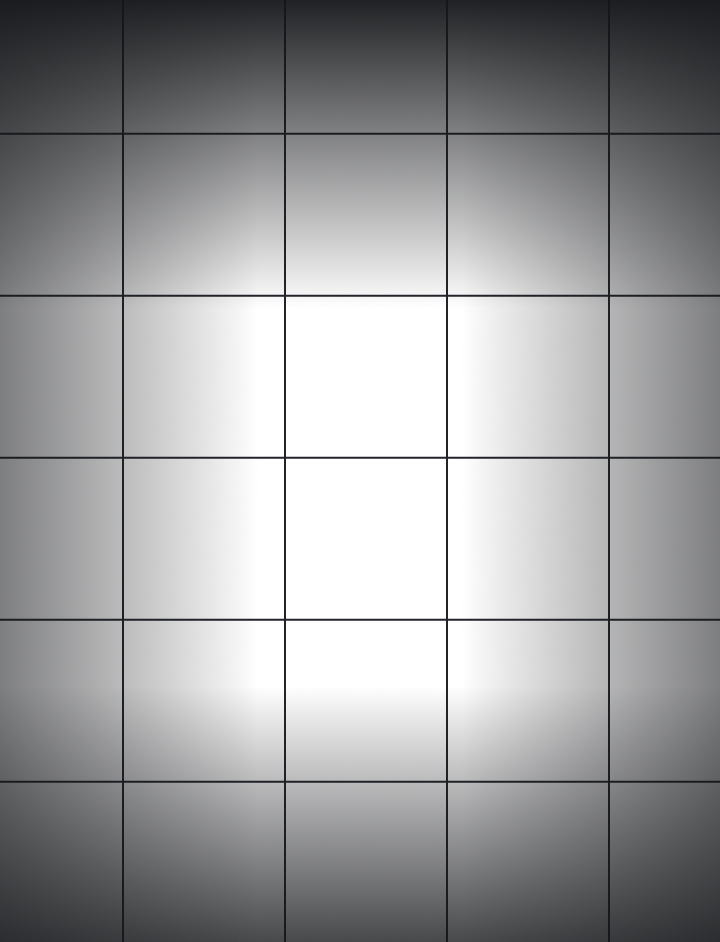
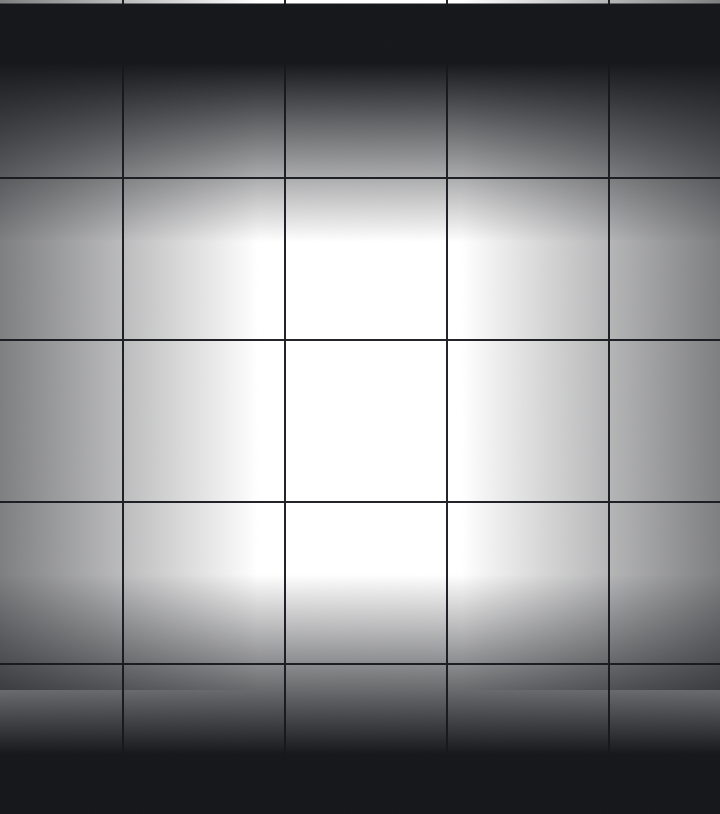
fixes

diff --git a/app/css/calculator.min.css b/app/css/calculator.min.css
@@ -1,1 +1,1 @@
-@media only screen and (min-width: 1160px){.functions-page .dropdown-item.active .dropdown-item__body{padding:0 24px 24px 24px !important}.functions-page .dropdown-item.active .functions-page__dropdown-header-button{opacity:1;pointer-events:all}.functions-page .dropdown-item__head{padding:16px 24px;position:relative}.functions-page .dropdown-item__title{font-size:18px}.functions-page .dropdown-item__value{width:48px;height:48px}.functions-page .dropdown-item__body{padding:0 24px !important}.functions-page .functions-page__dropdown-button{display:none}}.functions-page__container{padding-bottom:56px}@media only screen and (min-width: 760px){.functions-page__container{padding-bottom:90px}}@media only screen and (min-width: 1160px){.functions-page__container{padding-bottom:180px}}.functions-page__banner{padding-top:116px;padding-bottom:56px}@media only screen and (min-width: 760px){.functions-page__banner{max-width:620px;margin:0 auto;display:block;padding-bottom:80px;padding-top:190px}}@media only screen and (min-width: 1160px){.functions-page__banner{padding-bottom:163px;padding-top:196px}}.functions-page__title{font-size:28px;font-weight:700;line-height:140%;letter-spacing:.56px;color:#eeeff1;text-align:center;margin-bottom:12px}@media only screen and (min-width: 1160px){.functions-page__title{font-size:40px;line-height:150%;letter-spacing:.8px}}.functions-page__text{font-size:15px;text-align:center;margin-bottom:32px}.functions-page__image{width:100%;object-fit:contain}.functions-page__item.active .dropdown-item__body{max-height:3000px !important}@media only screen and (min-width: 1160px){.functions-page__item.active .dropdown-item__body{max-height:2000px !important}}.functions-page__dropdown-text{font-size:15px;margin-bottom:14px}.functions-page__dropdown-header-button{display:none}@media only screen and (min-width: 1160px){.functions-page__dropdown-header-button{display:flex;position:absolute;right:76px;top:23px;max-width:142px;opacity:0;pointer-events:none}}.functions-page__scenario{margin-top:32px}.functions-page__scenario-title{font-size:16px;font-weight:700;line-height:155%;color:#eeeff1;padding-bottom:16px;margin-bottom:16px;border-bottom:1px solid #2e3038}.functions-page__scenario-item{padding-bottom:14px;margin-bottom:24px;border-bottom:1px solid #2e3038}.functions-page__scenario-item-head{display:flex;align-items:center;margin-bottom:12px}.functions-page__scenario-item-icon{margin-right:4px}.functions-page__scenario-item-text{font-size:14px}.functions-page__scenario-item-list{display:flex;flex-wrap:wrap;align-items:center}.functions-page__scenario-item-tag-wrapper{display:flex;align-items:center}.functions-page__scenario-item-tag-wrapper:last-child .functions-page__scenario-item-tag-icon{display:none}.functions-page__scenario-item-tag{margin-right:0}.functions-page__scenario-item-tag-icon{margin:0 2px 8px 2px}.functions-page__scenario-info{display:flex;align-items:center;justify-content:space-between}.functions-page__scenario-info img{width:20px;height:20px;margin-left:2px}.functions-page__scenario-info .text{width:calc(100% - 22px)}@media only screen and (min-width: 760px){.functions-page__scenario-info{justify-content:flex-start}.functions-page__scenario-info .text{width:auto}}.functions-page__button{margin-bottom:32px}@media only screen and (min-width: 760px){.functions-page__button{max-width:200px;margin:0 auto 40px}}.functions-page__label{width:100%;border-radius:500px;background:#1c1d22;box-shadow:0 8px 30px 0 rgba(4,5,6,.06);padding:9px 24px 9px 6px;display:flex;align-items:center;justify-content:space-between}.functions-page__label .functions-page__label-image{width:48px;height:48px;display:flex;align-items:center;justify-content:center;border-radius:30px;background:#22242a}.functions-page__label span{font-size:13px;font-weight:700;line-height:140%;color:#eeeff1;width:calc(100% - 60px)}@media only screen and (min-width: 760px){.functions-page__label{max-width:685px;margin:-140px auto 0}}.calculator-modal__backdrop{width:100%;height:100%;position:fixed;left:0;top:0;z-index:9999;opacity:0;pointer-events:none;transition:all .3s ease}.calculator-modal__backdrop.final .calculator-modal__nav{display:none}.calculator-modal__backdrop.visible{opacity:1;pointer-events:all}@media only screen and (min-width: 760px){.calculator-modal__backdrop{display:flex;align-items:center;justify-content:center;background:rgba(5,5,6,.8)}}.calculator-modal__card{width:100%;height:100%;border-radius:0;padding:56px 0 0 0;overflow-y:auto;position:relative;background:#17181c}.calculator-modal__card.final-step .calculator-modal__nav{display:none}@media only screen and (min-width: 760px){.calculator-modal__card{width:calc(100vw - 48px);height:calc(100vh - 48px);border-radius:24px}}@media only screen and (min-width: 760px){.calculator-modal__body{max-width:618px;margin:0 auto}.calculator-modal__body:has(>.calculator-modal__template.range){height:100%;display:flex;align-items:center;padding-bottom:50px}}.calculator-modal__close{position:absolute;right:16px;top:16px;width:32px;height:32px;display:flex;align-items:center;justify-content:center;border-radius:6px;background:#2e3038;cursor:pointer}@media only screen and (min-width: 1160px){.calculator-modal__close{right:24px;top:24px}}.calculator-modal__container{width:100%;height:100%;display:flex;flex-direction:column;justify-content:space-between}.calculator-modal__progress{width:100%;display:flex;align-items:center;justify-content:space-between;margin-bottom:20px}.calculator-modal__step{width:calc(20% - 6px);height:4px;border-radius:8px;background:#22242a}.calculator-modal__step.active{background:#6a7081}.calculator-modal__button-group{display:flex;align-items:center;justify-content:space-between;padding-bottom:20px}.calculator-modal__back{width:auto;background:rgba(0,0,0,0);font-size:14px;font-weight:700;line-height:160%;color:#eeeff1;pointer-events:all}.calculator-modal__back.disabled{color:#2e3038;pointer-events:none}.calculator-modal__next{max-width:110px}.calculator-modal__next img{margin-left:4px}.calculator-modal__template.choose{margin-bottom:32px}.calculator-modal__template-title{font-size:22px;font-weight:700;line-height:150%;letter-spacing:.22px;color:#eeeff1;margin-bottom:12px}.calculator-modal__template-title span{color:#5d75ef}.calculator-modal__template-text{margin-bottom:24px;font-size:15px}.calculator-modal__template-choose{display:flex;flex-wrap:wrap;align-items:center;justify-content:space-between;margin-bottom:16px}@media only screen and (min-width: 1160px){.calculator-modal__template-choose{justify-content:flex-start;gap:16px}}.calculator-modal__template-choose-item{width:calc(50% - 4px);height:124px;display:flex;align-items:center;justify-content:center;flex-direction:column;border-radius:14px;border:1px solid #2e3038;margin-bottom:8px;transition:all .3s ease;cursor:pointer}.calculator-modal__template-choose-item img{width:24px;height:24px;margin-bottom:12px}.calculator-modal__template-choose-item span{font-size:13px;font-weight:700;line-height:155%;color:#eeeff1;text-align:center}.calculator-modal__template-choose-item.selected{border:1px solid #5d75ef;background:rgba(93,117,239,.05)}.calculator-modal__template-choose-item.selected:hover{border:1px solid #5d75ef;background:rgba(93,117,239,.05)}.calculator-modal__template-choose-item:hover{border-color:#393d46;background:#1c1d22}@media only screen and (min-width: 1160px){.calculator-modal__template-choose-item{width:calc(33.3333333333% - 11px);height:140px;margin-bottom:0}}.calculator-modal__template-choose-subtext{font-size:13px;margin-top:16px}.calculator-modal__range-wrapper .input-group{position:relative}.calculator-modal__range-wrapper .input-group .input{text-align:center;font-weight:700;font-size:20px}.calculator-modal__range-wrapper .input-group .calculator-modal__label{position:absolute;right:20px;top:50%;transform:translateY(-50%);color:#393d46;font-weight:700;font-size:20px}@media only screen and (min-width: 1160px){.calculator-modal__range-wrapper .input-group input{height:66px}}.calculator-modal__range{width:100%;position:relative;margin-top:20px}.calculator-modal__range input{-webkit-appearance:none;appearance:none;background:#22242a;width:100%;height:14px;border-radius:100px;outline:0}.calculator-modal__range input::-webkit-slider-thumb{-webkit-appearance:none}.calculator-modal__range input:focus{outline:none}.calculator-modal__range input::-webkit-slider-runnable-track{height:14px;background:#22242a;border-radius:100px;overflow:hidden}.calculator-modal__range input::-webkit-slider-thumb{border:3px solid #eeeff1;height:14px;width:14px;border-radius:100px;background:#5d75ef;cursor:pointer;box-shadow:-507px 0 0 500px #5d75ef}.calculator-modal__range input::-moz-range-thumb{border:3px solid #eeeff1;height:14px;width:14px;border-radius:100px;background:#5d75ef;cursor:pointer;box-shadow:-507px 0 0 500px #5d75ef}.calculator-modal__range input::-ms-thumb{border:3px solid #eeeff1;height:14px;width:14px;border-radius:100px;background:#5d75ef;cursor:pointer;box-shadow:-507px 0 0 500px #5d75ef}.calculator-modal__range-values{width:100%;display:flex;align-items:center;justify-content:space-between;margin-top:12px}.calculator-modal__range-values .calculator-modal__range-value{font-size:12px;font-weight:500;line-height:130%;color:#575c6b}.calculator-modal__range-splitter{width:2px;height:16px;background:#17181c;display:block;top:1px;position:absolute}.calculator-modal__range-splitter.left{left:25%;transform:translateX(-50%)}.calculator-modal__range-splitter.center{left:49%;transform:translateX(-50%)}.calculator-modal__range-splitter.right{left:73%;transform:translateX(-50%)}.calculator-modal__template-rooms{padding-bottom:24px}.calculator-modal__template-room{width:100%;display:flex;align-items:center;justify-content:space-between;padding:16px 16px 16px 20px;border-radius:14px;border:1px solid #2e3038;margin-bottom:12px}.calculator-modal__template-room:last-child{margin-bottom:0}.calculator-modal__template-room__name{font-size:13px;font-weight:700;line-height:155%;color:#eeeff1}@media only screen and (min-width: 760px){.calculator-modal__template-room__name{font-size:14px}.calculator-modal__template-room__name br{display:none}}.calculator-modal__template-counter{min-width:100px;display:flex;align-items:center;justify-content:space-between}.calculator-modal__template-minus,.calculator-modal__template-plus{width:32px;height:32px;display:flex;align-items:center;justify-content:center;border-radius:7px;background:#22242a;border:none;font-size:24px;font-weight:400;color:#84899a;cursor:pointer;transition:all .3s ease}.calculator-modal__template-minus:hover,.calculator-modal__template-plus:hover{background:#2e3038;color:#eeeff1}.calculator-modal__template-room-value{width:32px;height:32px;display:flex;align-items:center;justify-content:center;font-size:13px;font-weight:500;line-height:140%;color:#eeeff1}.calculator-modal_final-title{font-size:17px;font-weight:700;line-height:155%;color:#eeeff1;margin-bottom:24px}.calculator-modal_final-dropdown{border-radius:14px;background:#1c1d22;margin-bottom:16px;transition:all .3s ease}.calculator-modal_final-dropdown.active .calculator-modal_final-dropdown-body{padding-bottom:22px;max-height:1000px}.calculator-modal_final-dropdown.active .calculator-modal_final-dropdown-right img{transform:rotate(270deg)}.calculator-modal_final-dropdown.active:hover{background:#1c1d22}.calculator-modal_final-dropdown:hover{background:#22242a}.calculator-modal_final-dropdown-header{padding:22px 24px;display:flex;align-items:center;justify-content:space-between;cursor:pointer}.calculator-modal_final-dropdown-left{display:flex;align-items:center}.calculator-modal_final-dropdown-title{font-size:20px;font-weight:700;line-height:150%;color:#5d75ef;margin-right:6px}.calculator-modal_final-dropdown-icon{position:relative}.calculator-modal_final-dropdown-icon:hover .calculator-modal_final-info{opacity:1;pointer-events:all}.calculator-modal_final-info{top:calc(100% + 4px);left:-100px;position:absolute;width:max-content;max-width:360px;padding:8px;border-radius:5px;background:#2e3038;font-size:13px;font-weight:700;line-height:150%;color:#eeeff1;transition:all .3s ease;opacity:0;pointer-events:none}.calculator-modal_final-info svg{position:absolute;top:-4px;left:50%;transform:translateX(-50%)}@media only screen and (min-width: 760px){.calculator-modal_final-info{max-width:490px;transform:translateX(-50%);left:50%}}.calculator-modal_final-dropdown-right{display:flex;align-items:center}.calculator-modal_final-dropdown-right span{font-size:12px;font-weight:500;line-height:130%;color:#eeeff1;margin-right:4px}.calculator-modal_final-dropdown-right img{transition:all .5s ease;transform:rotate(90deg)}.calculator-modal_final-dropdown-body{width:100%;max-height:0;transition:all .5s ease;padding-left:24px;padding-right:24px;overflow:hidden}.calculator-modal_final-dropdown-item{width:100%;padding:12px 0;border-top:1px solid #2e3038;display:flex;align-items:center;justify-content:space-between}.calculator-modal_final-dropdown-item-title{font-size:14px;font-weight:700;line-height:155%;color:#eeeff1;margin-bottom:2px}.calculator-modal_final-dropdown-item-text{font-size:13px}.calculator-modal_final-dropdown-item-value{font-size:16px;font-weight:700;line-height:155%;color:#eeeff1;margin-left:24px;text-wrap:nowrap}.calculator-modal_final-text{font-size:13px;margin-bottom:32px}.calculator-modal_final-form{padding-bottom:22px}.calculator-modal_final-form-title{font-size:19px;font-weight:700;line-height:150%;color:#eeeff1;margin-bottom:16px}.calculator-modal_final-form-group{margin-bottom:12px}.calculator-modal_final-form-group:last-child{margin-bottom:0}.calculator-modal_final-form-submit{margin-top:24px}.confirm-modal__backdrop{z-index:999999;display:flex;align-items:center;justify-content:center}.confirm-modal{display:flex;flex-direction:column;align-items:center;padding:32px;max-width:420px}.confirm-modal__accept{width:40px;height:40px;display:flex;align-items:center;justify-content:center;background:#5d75ef;border-radius:100px;margin-bottom:16px}.confirm-modal__title{font-size:14px;font-weight:500;line-height:165%;color:#eeeff1;text-align:center;margin-bottom:8px}.confirm-modal__text{font-size:14px;text-align:center;margin-bottom:20px}
+@media only screen and (min-width: 1160px){.functions-page .dropdown-item.active .dropdown-item__body{padding:0 24px 24px 24px !important}.functions-page .dropdown-item.active .functions-page__dropdown-header-button{opacity:1;pointer-events:all}.functions-page .dropdown-item__head{padding:16px 24px;position:relative}.functions-page .dropdown-item__title{font-size:18px}.functions-page .dropdown-item__value{width:48px;height:48px}.functions-page .dropdown-item__body{padding:0 24px !important}.functions-page .functions-page__dropdown-button{display:none}}.functions-page__container{padding-bottom:56px}.functions-page__container .bg-lines__image{top:45px}@media only screen and (min-width: 760px){.functions-page__container{padding-bottom:90px}.functions-page__container .bg-lines__image{top:90px}}@media only screen and (min-width: 1160px){.functions-page__container{padding-bottom:180px}.functions-page__container .bg-lines__image{top:160px}}.functions-page__banner{padding-top:116px;padding-bottom:56px}@media only screen and (min-width: 760px){.functions-page__banner{max-width:620px;margin:0 auto;display:block;padding-bottom:80px;padding-top:190px}}@media only screen and (min-width: 1160px){.functions-page__banner{padding-bottom:163px;padding-top:196px}}.functions-page__title{font-size:28px;font-weight:700;line-height:140%;letter-spacing:.56px;color:#eeeff1;text-align:center;margin-bottom:12px}@media only screen and (min-width: 1160px){.functions-page__title{font-size:40px;line-height:150%;letter-spacing:.8px}}.functions-page__text{font-size:15px;text-align:center;margin-bottom:32px}.functions-page__image{width:100%;object-fit:contain}.functions-page__item.active .dropdown-item__body{max-height:3000px !important}@media only screen and (min-width: 1160px){.functions-page__item.active .dropdown-item__body{max-height:2000px !important}}.functions-page__dropdown-text{font-size:15px;margin-bottom:14px}.functions-page__dropdown-header-button{display:none}@media only screen and (min-width: 1160px){.functions-page__dropdown-header-button{display:flex;position:absolute;right:76px;top:23px;max-width:142px;opacity:0;pointer-events:none}}.functions-page__scenario{margin-top:32px}.functions-page__scenario-title{font-size:16px;font-weight:700;line-height:155%;color:#eeeff1;padding-bottom:16px;margin-bottom:16px;border-bottom:1px solid #2e3038}.functions-page__scenario-item{padding-bottom:14px;margin-bottom:24px;border-bottom:1px solid #2e3038}.functions-page__scenario-item-head{display:flex;align-items:center;margin-bottom:12px}.functions-page__scenario-item-icon{margin-right:4px}.functions-page__scenario-item-text{font-size:14px}.functions-page__scenario-item-list{display:flex;flex-wrap:wrap;align-items:center}.functions-page__scenario-item-tag-wrapper{display:flex;align-items:center}.functions-page__scenario-item-tag-wrapper:last-child .functions-page__scenario-item-tag-icon{display:none}.functions-page__scenario-item-tag{margin-right:0}.functions-page__scenario-item-tag-icon{margin:0 2px 8px 2px}.functions-page__scenario-info{display:flex;align-items:center;justify-content:space-between}.functions-page__scenario-info img{width:20px;height:20px;margin-left:2px}.functions-page__scenario-info .text{width:calc(100% - 22px)}@media only screen and (min-width: 760px){.functions-page__scenario-info{justify-content:flex-start}.functions-page__scenario-info .text{width:auto}}.functions-page__button{margin-bottom:32px}@media only screen and (min-width: 760px){.functions-page__button{max-width:200px;margin:0 auto 40px}}.functions-page__label{width:100%;border-radius:500px;background:#1c1d22;box-shadow:0 8px 30px 0 rgba(4,5,6,.06);padding:9px 24px 9px 6px;display:flex;align-items:center;justify-content:space-between}.functions-page__label .functions-page__label-image{width:48px;height:48px;display:flex;align-items:center;justify-content:center;border-radius:30px;background:#22242a}.functions-page__label span{font-size:13px;font-weight:700;line-height:140%;color:#eeeff1;width:calc(100% - 60px)}@media only screen and (min-width: 760px){.functions-page__label{max-width:685px;margin:-140px auto 0}}.calculator-modal__backdrop{width:100%;height:100%;position:fixed;left:0;top:0;z-index:9999;opacity:0;pointer-events:none;transition:all .3s ease}.calculator-modal__backdrop.final .calculator-modal__nav{display:none}.calculator-modal__backdrop.visible{opacity:1;pointer-events:all}@media only screen and (min-width: 760px){.calculator-modal__backdrop{display:flex;align-items:center;justify-content:center;background:rgba(5,5,6,.8)}}.calculator-modal__card{width:100%;height:100%;border-radius:0;padding:56px 0 0 0;overflow-y:auto;position:relative;background:#17181c}.calculator-modal__card.final-step .calculator-modal__nav{display:none}@media only screen and (min-width: 760px){.calculator-modal__card{width:calc(100vw - 48px);height:calc(100vh - 48px);border-radius:24px}}@media only screen and (min-width: 760px){.calculator-modal__body{max-width:618px;margin:0 auto}.calculator-modal__body:has(>.calculator-modal__template.range){height:100%;display:flex;align-items:center;padding-bottom:50px}}.calculator-modal__close{position:absolute;right:16px;top:16px;width:32px;height:32px;display:flex;align-items:center;justify-content:center;border-radius:6px;background:#2e3038;cursor:pointer}@media only screen and (min-width: 1160px){.calculator-modal__close{right:24px;top:24px}}.calculator-modal__container{width:100%;height:100%;display:flex;flex-direction:column;justify-content:space-between}.calculator-modal__progress{width:100%;display:flex;align-items:center;justify-content:space-between;margin-bottom:20px}.calculator-modal__step{width:calc(20% - 6px);height:4px;border-radius:8px;background:#22242a}.calculator-modal__step.active{background:#6a7081}.calculator-modal__button-group{display:flex;align-items:center;justify-content:space-between;padding-bottom:20px}.calculator-modal__back{width:auto;background:rgba(0,0,0,0);font-size:14px;font-weight:700;line-height:160%;color:#eeeff1;pointer-events:all}.calculator-modal__back.disabled{color:#2e3038;pointer-events:none}.calculator-modal__next{max-width:110px}.calculator-modal__next img{margin-left:4px}.calculator-modal__template.choose{margin-bottom:32px}.calculator-modal__template-title{font-size:22px;font-weight:700;line-height:150%;letter-spacing:.22px;color:#eeeff1;margin-bottom:12px}.calculator-modal__template-title span{color:#5d75ef}.calculator-modal__template-text{margin-bottom:24px;font-size:15px}.calculator-modal__template-choose{display:flex;flex-wrap:wrap;align-items:center;justify-content:space-between;margin-bottom:16px}@media only screen and (min-width: 1160px){.calculator-modal__template-choose{justify-content:flex-start;gap:16px}}.calculator-modal__template-choose-item{width:calc(50% - 4px);height:124px;display:flex;align-items:center;justify-content:center;flex-direction:column;border-radius:14px;border:1px solid #2e3038;margin-bottom:8px;transition:all .3s ease;cursor:pointer}.calculator-modal__template-choose-item img{width:24px;height:24px;margin-bottom:12px}.calculator-modal__template-choose-item span{font-size:13px;font-weight:700;line-height:155%;color:#eeeff1;text-align:center}.calculator-modal__template-choose-item.selected{border:1px solid #5d75ef;background:rgba(93,117,239,.05)}.calculator-modal__template-choose-item.selected:hover{border:1px solid #5d75ef;background:rgba(93,117,239,.05)}.calculator-modal__template-choose-item:hover{border-color:#393d46;background:#1c1d22}@media only screen and (min-width: 1160px){.calculator-modal__template-choose-item{width:calc(33.3333333333% - 11px);height:140px;margin-bottom:0}}.calculator-modal__template-choose-subtext{font-size:13px;margin-top:16px}.calculator-modal__range-wrapper .input-group{position:relative}.calculator-modal__range-wrapper .input-group .input{text-align:center;font-weight:700;font-size:20px}.calculator-modal__range-wrapper .input-group .calculator-modal__label{position:absolute;right:20px;top:50%;transform:translateY(-50%);color:#393d46;font-weight:700;font-size:20px}@media only screen and (min-width: 1160px){.calculator-modal__range-wrapper .input-group input{height:66px}}.calculator-modal__range{width:100%;position:relative;margin-top:20px}.calculator-modal__range input{-webkit-appearance:none;appearance:none;background:#22242a;width:100%;height:14px;border-radius:100px;outline:0}.calculator-modal__range input::-webkit-slider-thumb{-webkit-appearance:none}.calculator-modal__range input:focus{outline:none}.calculator-modal__range input::-webkit-slider-runnable-track{height:14px;background:#22242a;border-radius:100px;overflow:hidden}.calculator-modal__range input::-webkit-slider-thumb{border:3px solid #eeeff1;height:14px;width:14px;border-radius:100px;background:#5d75ef;cursor:pointer;box-shadow:-507px 0 0 500px #5d75ef}.calculator-modal__range input::-moz-range-thumb{border:3px solid #eeeff1;height:14px;width:14px;border-radius:100px;background:#5d75ef;cursor:pointer;box-shadow:-507px 0 0 500px #5d75ef}.calculator-modal__range input::-ms-thumb{border:3px solid #eeeff1;height:14px;width:14px;border-radius:100px;background:#5d75ef;cursor:pointer;box-shadow:-507px 0 0 500px #5d75ef}.calculator-modal__range-values{width:100%;display:flex;align-items:center;justify-content:space-between;margin-top:12px}.calculator-modal__range-values .calculator-modal__range-value{font-size:12px;font-weight:500;line-height:130%;color:#575c6b}.calculator-modal__range-splitter{width:2px;height:16px;background:#17181c;display:block;top:1px;position:absolute}.calculator-modal__range-splitter.left{left:25%;transform:translateX(-50%)}.calculator-modal__range-splitter.center{left:49%;transform:translateX(-50%)}.calculator-modal__range-splitter.right{left:73%;transform:translateX(-50%)}.calculator-modal__template-rooms{padding-bottom:24px}.calculator-modal__template-room{width:100%;display:flex;align-items:center;justify-content:space-between;padding:16px 16px 16px 20px;border-radius:14px;border:1px solid #2e3038;margin-bottom:12px}.calculator-modal__template-room:last-child{margin-bottom:0}.calculator-modal__template-room__name{font-size:13px;font-weight:700;line-height:155%;color:#eeeff1}@media only screen and (min-width: 760px){.calculator-modal__template-room__name{font-size:14px}.calculator-modal__template-room__name br{display:none}}.calculator-modal__template-counter{min-width:100px;display:flex;align-items:center;justify-content:space-between}.calculator-modal__template-minus,.calculator-modal__template-plus{width:32px;height:32px;display:flex;align-items:center;justify-content:center;border-radius:7px;background:#22242a;border:none;font-size:24px;font-weight:400;color:#84899a;cursor:pointer;transition:all .3s ease}.calculator-modal__template-minus:hover,.calculator-modal__template-plus:hover{background:#2e3038;color:#eeeff1}.calculator-modal__template-room-value{width:32px;height:32px;display:flex;align-items:center;justify-content:center;font-size:13px;font-weight:500;line-height:140%;color:#eeeff1}.calculator-modal_final-title{font-size:17px;font-weight:700;line-height:155%;color:#eeeff1;margin-bottom:24px}.calculator-modal_final-dropdown{border-radius:14px;background:#1c1d22;margin-bottom:16px;transition:all .3s ease}.calculator-modal_final-dropdown.active .calculator-modal_final-dropdown-body{padding-bottom:22px;max-height:1000px}.calculator-modal_final-dropdown.active .calculator-modal_final-dropdown-right img{transform:rotate(270deg)}.calculator-modal_final-dropdown.active:hover{background:#1c1d22}.calculator-modal_final-dropdown:hover{background:#22242a}.calculator-modal_final-dropdown-header{padding:22px 24px;display:flex;align-items:center;justify-content:space-between;cursor:pointer}.calculator-modal_final-dropdown-left{display:flex;align-items:center}.calculator-modal_final-dropdown-title{font-size:20px;font-weight:700;line-height:150%;color:#5d75ef;margin-right:6px}.calculator-modal_final-dropdown-icon{position:relative}.calculator-modal_final-dropdown-icon:hover .calculator-modal_final-info{opacity:1;pointer-events:all}.calculator-modal_final-info{top:calc(100% + 4px);left:-100px;position:absolute;width:max-content;max-width:360px;padding:8px;border-radius:5px;background:#2e3038;font-size:13px;font-weight:700;line-height:150%;color:#eeeff1;transition:all .3s ease;opacity:0;pointer-events:none}.calculator-modal_final-info svg{position:absolute;top:-4px;left:50%;transform:translateX(-50%)}@media only screen and (min-width: 760px){.calculator-modal_final-info{max-width:490px;transform:translateX(-50%);left:50%}}.calculator-modal_final-dropdown-right{display:flex;align-items:center}.calculator-modal_final-dropdown-right span{font-size:12px;font-weight:500;line-height:130%;color:#eeeff1;margin-right:4px}.calculator-modal_final-dropdown-right img{transition:all .5s ease;transform:rotate(90deg)}.calculator-modal_final-dropdown-body{width:100%;max-height:0;transition:all .5s ease;padding-left:24px;padding-right:24px;overflow:hidden}.calculator-modal_final-dropdown-item{width:100%;padding:12px 0;border-top:1px solid #2e3038;display:flex;align-items:center;justify-content:space-between}.calculator-modal_final-dropdown-item-title{font-size:14px;font-weight:700;line-height:155%;color:#eeeff1;margin-bottom:2px}.calculator-modal_final-dropdown-item-text{font-size:13px}.calculator-modal_final-dropdown-item-value{font-size:16px;font-weight:700;line-height:155%;color:#eeeff1;margin-left:24px;text-wrap:nowrap}.calculator-modal_final-text{font-size:13px;margin-bottom:32px}.calculator-modal_final-form{padding-bottom:22px}.calculator-modal_final-form-title{font-size:19px;font-weight:700;line-height:150%;color:#eeeff1;margin-bottom:16px}.calculator-modal_final-form-group{margin-bottom:12px}.calculator-modal_final-form-group:last-child{margin-bottom:0}.calculator-modal_final-form-submit{margin-top:24px}.confirm-modal__backdrop{z-index:999999;display:flex;align-items:center;justify-content:center}.confirm-modal{display:flex;flex-direction:column;align-items:center;padding:32px;max-width:420px}.confirm-modal__accept{width:40px;height:40px;display:flex;align-items:center;justify-content:center;background:#5d75ef;border-radius:100px;margin-bottom:16px}.confirm-modal__title{font-size:14px;font-weight:500;line-height:165%;color:#eeeff1;text-align:center;margin-bottom:8px}.confirm-modal__text{font-size:14px;text-align:center;margin-bottom:20px}

diff --git a/app/css/functions-page.min.css b/app/css/functions-page.min.css
@@ -1,1 +1,1 @@
-@media only screen and (min-width: 1160px){.functions-page .dropdown-item.active .dropdown-item__body{padding:0 24px 24px 24px !important}.functions-page .dropdown-item.active .functions-page__dropdown-header-button{opacity:1;pointer-events:all}.functions-page .dropdown-item__head{padding:16px 24px;position:relative}.functions-page .dropdown-item__title{font-size:18px}.functions-page .dropdown-item__value{width:48px;height:48px}.functions-page .dropdown-item__body{padding:0 24px !important}.functions-page .functions-page__dropdown-button{display:none}}.functions-page__container{padding-bottom:56px}@media only screen and (min-width: 760px){.functions-page__container{padding-bottom:90px}}@media only screen and (min-width: 1160px){.functions-page__container{padding-bottom:180px}}.functions-page__banner{padding-top:116px;padding-bottom:56px}@media only screen and (min-width: 760px){.functions-page__banner{max-width:620px;margin:0 auto;display:block;padding-bottom:80px;padding-top:190px}}@media only screen and (min-width: 1160px){.functions-page__banner{padding-bottom:163px;padding-top:196px}}.functions-page__title{font-size:28px;font-weight:700;line-height:140%;letter-spacing:.56px;color:#eeeff1;text-align:center;margin-bottom:12px}@media only screen and (min-width: 1160px){.functions-page__title{font-size:40px;line-height:150%;letter-spacing:.8px}}.functions-page__text{font-size:15px;text-align:center;margin-bottom:32px}.functions-page__image{width:100%;-o-object-fit:contain;object-fit:contain}.functions-page__item.active .dropdown-item__body{max-height:3000px !important}@media only screen and (min-width: 1160px){.functions-page__item.active .dropdown-item__body{max-height:2000px !important}}.functions-page__dropdown-text{font-size:15px;margin-bottom:14px}.functions-page__dropdown-header-button{display:none}@media only screen and (min-width: 1160px){.functions-page__dropdown-header-button{display:-webkit-box;display:-ms-flexbox;display:flex;position:absolute;right:76px;top:23px;max-width:142px;opacity:0;pointer-events:none}}.functions-page__scenario{margin-top:32px}.functions-page__scenario-title{font-size:16px;font-weight:700;line-height:155%;color:#eeeff1;padding-bottom:16px;margin-bottom:16px;border-bottom:1px solid #2e3038}.functions-page__scenario-item{padding-bottom:14px;margin-bottom:24px;border-bottom:1px solid #2e3038}.functions-page__scenario-item-head{display:-webkit-box;display:-ms-flexbox;display:flex;-webkit-box-align:center;-ms-flex-align:center;align-items:center;margin-bottom:12px}.functions-page__scenario-item-icon{margin-right:4px}.functions-page__scenario-item-text{font-size:14px}.functions-page__scenario-item-list{display:-webkit-box;display:-ms-flexbox;display:flex;-ms-flex-wrap:wrap;flex-wrap:wrap;-webkit-box-align:center;-ms-flex-align:center;align-items:center}.functions-page__scenario-item-tag-wrapper{display:-webkit-box;display:-ms-flexbox;display:flex;-webkit-box-align:center;-ms-flex-align:center;align-items:center}.functions-page__scenario-item-tag-wrapper:last-child .functions-page__scenario-item-tag-icon{display:none}.functions-page__scenario-item-tag{margin-right:0}.functions-page__scenario-item-tag-icon{margin:0 2px 8px 2px}.functions-page__scenario-info{display:-webkit-box;display:-ms-flexbox;display:flex;-webkit-box-align:center;-ms-flex-align:center;align-items:center;-webkit-box-pack:justify;-ms-flex-pack:justify;justify-content:space-between}.functions-page__scenario-info img{width:20px;height:20px;margin-left:2px}.functions-page__scenario-info .text{width:calc(100% - 22px)}@media only screen and (min-width: 760px){.functions-page__scenario-info{-webkit-box-pack:start;-ms-flex-pack:start;justify-content:flex-start}.functions-page__scenario-info .text{width:auto}}.functions-page__button{margin-bottom:32px}@media only screen and (min-width: 760px){.functions-page__button{max-width:200px;margin:0 auto 40px}}.functions-page__label{width:100%;border-radius:500px;background:#1c1d22;-webkit-box-shadow:0 8px 30px 0 rgba(4,5,6,.06);box-shadow:0 8px 30px 0 rgba(4,5,6,.06);padding:9px 24px 9px 6px;display:-webkit-box;display:-ms-flexbox;display:flex;-webkit-box-align:center;-ms-flex-align:center;align-items:center;-webkit-box-pack:justify;-ms-flex-pack:justify;justify-content:space-between}.functions-page__label .functions-page__label-image{width:48px;height:48px;display:-webkit-box;display:-ms-flexbox;display:flex;-webkit-box-align:center;-ms-flex-align:center;align-items:center;-webkit-box-pack:center;-ms-flex-pack:center;justify-content:center;border-radius:30px;background:#22242a}.functions-page__label span{font-size:13px;font-weight:700;line-height:140%;color:#eeeff1;width:calc(100% - 60px)}@media only screen and (min-width: 760px){.functions-page__label{max-width:685px;margin:-140px auto 0}}
+@media only screen and (min-width: 1160px){.functions-page .dropdown-item.active .dropdown-item__body{padding:0 24px 24px 24px !important}.functions-page .dropdown-item.active .functions-page__dropdown-header-button{opacity:1;pointer-events:all}.functions-page .dropdown-item__head{padding:16px 24px;position:relative}.functions-page .dropdown-item__title{font-size:18px}.functions-page .dropdown-item__value{width:48px;height:48px}.functions-page .dropdown-item__body{padding:0 24px !important}.functions-page .functions-page__dropdown-button{display:none}}.functions-page__container{padding-bottom:56px}.functions-page__container .bg-lines__image{top:45px}@media only screen and (min-width: 760px){.functions-page__container{padding-bottom:90px}.functions-page__container .bg-lines__image{top:90px}}@media only screen and (min-width: 1160px){.functions-page__container{padding-bottom:180px}.functions-page__container .bg-lines__image{top:160px}}.functions-page__banner{padding-top:116px;padding-bottom:56px}@media only screen and (min-width: 760px){.functions-page__banner{max-width:620px;margin:0 auto;display:block;padding-bottom:80px;padding-top:190px}}@media only screen and (min-width: 1160px){.functions-page__banner{padding-bottom:163px;padding-top:196px}}.functions-page__title{font-size:28px;font-weight:700;line-height:140%;letter-spacing:.56px;color:#eeeff1;text-align:center;margin-bottom:12px}@media only screen and (min-width: 1160px){.functions-page__title{font-size:40px;line-height:150%;letter-spacing:.8px}}.functions-page__text{font-size:15px;text-align:center;margin-bottom:32px}.functions-page__image{width:100%;-o-object-fit:contain;object-fit:contain}.functions-page__item.active .dropdown-item__body{max-height:3000px !important}@media only screen and (min-width: 1160px){.functions-page__item.active .dropdown-item__body{max-height:2000px !important}}.functions-page__dropdown-text{font-size:15px;margin-bottom:14px}.functions-page__dropdown-header-button{display:none}@media only screen and (min-width: 1160px){.functions-page__dropdown-header-button{display:-webkit-box;display:-ms-flexbox;display:flex;position:absolute;right:76px;top:23px;max-width:142px;opacity:0;pointer-events:none}}.functions-page__scenario{margin-top:32px}.functions-page__scenario-title{font-size:16px;font-weight:700;line-height:155%;color:#eeeff1;padding-bottom:16px;margin-bottom:16px;border-bottom:1px solid #2e3038}.functions-page__scenario-item{padding-bottom:14px;margin-bottom:24px;border-bottom:1px solid #2e3038}.functions-page__scenario-item-head{display:-webkit-box;display:-ms-flexbox;display:flex;-webkit-box-align:center;-ms-flex-align:center;align-items:center;margin-bottom:12px}.functions-page__scenario-item-icon{margin-right:4px}.functions-page__scenario-item-text{font-size:14px}.functions-page__scenario-item-list{display:-webkit-box;display:-ms-flexbox;display:flex;-ms-flex-wrap:wrap;flex-wrap:wrap;-webkit-box-align:center;-ms-flex-align:center;align-items:center}.functions-page__scenario-item-tag-wrapper{display:-webkit-box;display:-ms-flexbox;display:flex;-webkit-box-align:center;-ms-flex-align:center;align-items:center}.functions-page__scenario-item-tag-wrapper:last-child .functions-page__scenario-item-tag-icon{display:none}.functions-page__scenario-item-tag{margin-right:0}.functions-page__scenario-item-tag-icon{margin:0 2px 8px 2px}.functions-page__scenario-info{display:-webkit-box;display:-ms-flexbox;display:flex;-webkit-box-align:center;-ms-flex-align:center;align-items:center;-webkit-box-pack:justify;-ms-flex-pack:justify;justify-content:space-between}.functions-page__scenario-info img{width:20px;height:20px;margin-left:2px}.functions-page__scenario-info .text{width:calc(100% - 22px)}@media only screen and (min-width: 760px){.functions-page__scenario-info{-webkit-box-pack:start;-ms-flex-pack:start;justify-content:flex-start}.functions-page__scenario-info .text{width:auto}}.functions-page__button{margin-bottom:32px}@media only screen and (min-width: 760px){.functions-page__button{max-width:200px;margin:0 auto 40px}}.functions-page__label{width:100%;border-radius:500px;background:#1c1d22;-webkit-box-shadow:0 8px 30px 0 rgba(4,5,6,.06);box-shadow:0 8px 30px 0 rgba(4,5,6,.06);padding:9px 24px 9px 6px;display:-webkit-box;display:-ms-flexbox;display:flex;-webkit-box-align:center;-ms-flex-align:center;align-items:center;-webkit-box-pack:justify;-ms-flex-pack:justify;justify-content:space-between}.functions-page__label .functions-page__label-image{width:48px;height:48px;display:-webkit-box;display:-ms-flexbox;display:flex;-webkit-box-align:center;-ms-flex-align:center;align-items:center;-webkit-box-pack:center;-ms-flex-pack:center;justify-content:center;border-radius:30px;background:#22242a}.functions-page__label span{font-size:13px;font-weight:700;line-height:140%;color:#eeeff1;width:calc(100% - 60px)}@media only screen and (min-width: 760px){.functions-page__label{max-width:685px;margin:-140px auto 0}}

diff --git a/app/security.html b/app/security.html
@@ -193,7 +193,7 @@
     </header>
     <section class="security-feature functions-page">
     
-      <div class="functions-page__container container">
+      <div class="functions-page__container container bg-lines">
         <div class="functions-page__banner">
           <h1 class="functions-page__title">Функції безпеки</h1>
           <p class="functions-page__text text">Ми пропонуємо найширший спектр функцій безпеки та захисту на українському
@@ -202,6 +202,8 @@
         </div>
     
         <div class="functions-page__feature-list dropdown-list"></div>
+        <img class="bg-lines__image desktop" src="../assets/feature-bg-lines-desktop.png" alt="Background lines">
+        <img class="bg-lines__image mobile" src="../assets/feature-bg-lines-mobile.png" alt="Background lines">
       </div>
     
     </section>

diff --git a/app/comfort.html b/app/comfort.html
@@ -193,7 +193,7 @@
     </header>
     <section class="comfort-feature functions-page">
     
-      <div class="functions-page__container container">
+      <div class="functions-page__container container bg-lines">
         <div class="functions-page__banner">
           <h1 class="functions-page__title">Функції Комфорту</h1>
           <p class="functions-page__text text">Ми пропонуємо усі можливі функції комфорту та їх автоматизацію.
@@ -202,6 +202,8 @@
         </div>
     
         <div class="functions-page__feature-list dropdown-list"></div>
+        <img class="bg-lines__image desktop" src="../assets/feature-bg-lines-desktop.png" alt="Background lines">
+        <img class="bg-lines__image mobile" src="../assets/feature-bg-lines-mobile.png" alt="Background lines">
       </div>
     
     </section>

diff --git a/app/components/security-feature-section.html b/app/components/security-feature-section.html
@@ -1,6 +1,6 @@
 <section class="security-feature functions-page">
 
-  <div class="functions-page__container container">
+  <div class="functions-page__container container bg-lines">
     <div class="functions-page__banner">
       <h1 class="functions-page__title">Функції безпеки</h1>
       <p class="functions-page__text text">Ми пропонуємо найширший спектр функцій безпеки та захисту на українському
@@ -9,6 +9,8 @@
     </div>
 
     <div class="functions-page__feature-list dropdown-list"></div>
+    <img class="bg-lines__image desktop" src="../assets/feature-bg-lines-desktop.png" alt="Background lines">
+    <img class="bg-lines__image mobile" src="../assets/feature-bg-lines-mobile.png" alt="Background lines">
   </div>
 
 </section>

diff --git a/app/components/comfort-feature-section.html b/app/components/comfort-feature-section.html
@@ -1,6 +1,6 @@
 <section class="comfort-feature functions-page">
 
-  <div class="functions-page__container container">
+  <div class="functions-page__container container bg-lines">
     <div class="functions-page__banner">
       <h1 class="functions-page__title">Функції Комфорту</h1>
       <p class="functions-page__text text">Ми пропонуємо усі можливі функції комфорту та їх автоматизацію.
@@ -9,6 +9,8 @@
     </div>
 
     <div class="functions-page__feature-list dropdown-list"></div>
+    <img class="bg-lines__image desktop" src="../assets/feature-bg-lines-desktop.png" alt="Background lines">
+    <img class="bg-lines__image mobile" src="../assets/feature-bg-lines-mobile.png" alt="Background lines">
   </div>
 
 </section>

diff --git a/app/calculator.html b/app/calculator.html
@@ -212,8 +212,8 @@
           </span>
       </div>
   
-      <img class="bg-lines__image desktop" src="../assets/convenient-control-bg-lines-desktop.png" alt="Background lines">
-      <img class="bg-lines__image mobile" src="../assets/convenient-control-bg-lines-mobile.png" alt="Background lines">
+      <img class="bg-lines__image desktop" src="../assets/calculator-bg-lines-desktop.png" alt="Background lines">
+      <img class="bg-lines__image mobile" src="../assets/calculator-bg-lines-mobile.png" alt="Background lines">
     </div>
   </section>
   <div class="confirm-modal__backdrop modal__backdrop">

diff --git a/app/components/calculator-banner-section.html b/app/components/calculator-banner-section.html
@@ -19,7 +19,7 @@
         </span>
     </div>
 
-    <img class="bg-lines__image desktop" src="../assets/convenient-control-bg-lines-desktop.png" alt="Background lines">
-    <img class="bg-lines__image mobile" src="../assets/convenient-control-bg-lines-mobile.png" alt="Background lines">
+    <img class="bg-lines__image desktop" src="../assets/calculator-bg-lines-desktop.png" alt="Background lines">
+    <img class="bg-lines__image mobile" src="../assets/calculator-bg-lines-mobile.png" alt="Background lines">
   </div>
 </section>

diff --git a/app/scss/functions-page.scss b/app/scss/functions-page.scss
@@ -43,12 +43,24 @@
 .functions-page__container {
   padding-bottom: 56px;
 
+  .bg-lines__image {
+    top: 45px;
+  }
+
   @media only screen and (min-width: 760px) {
     padding-bottom: 90px;
+
+    .bg-lines__image {
+      top: 90px;
+    }
   }
 
   @media only screen and (min-width: 1160px) {
     padding-bottom: 180px;
+
+    .bg-lines__image {
+      top: 160px;
+    }
   }
 }
 
